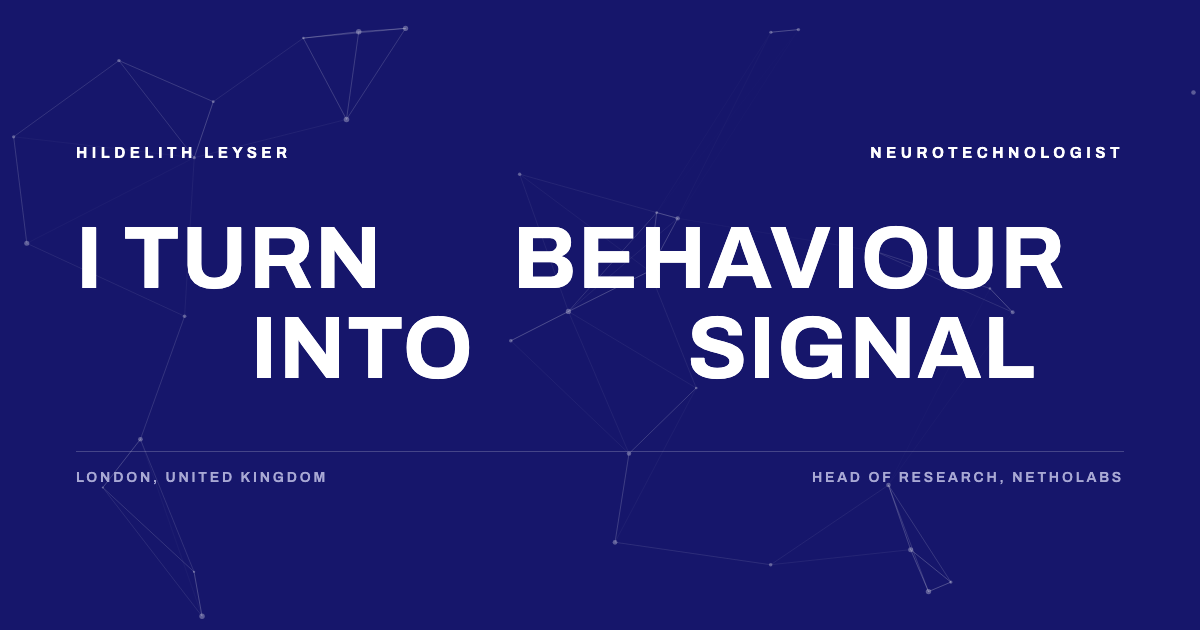
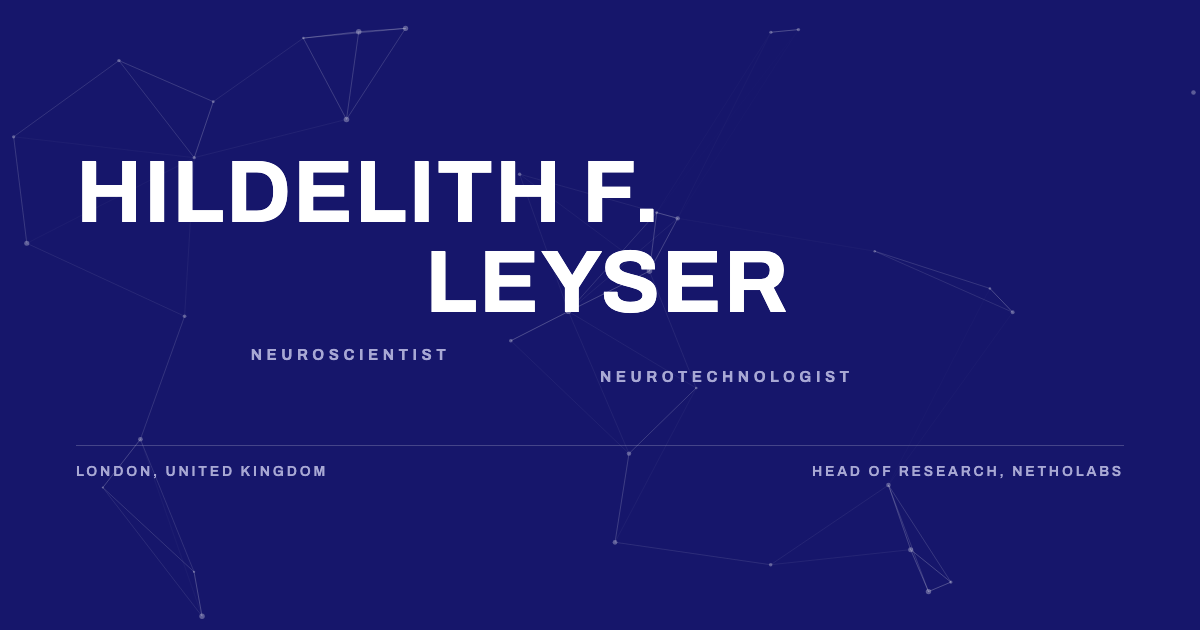
Name, contact, hosting stack: Netlify, GoatCounter, Loop
- Hero drops the slogan and carries the name instead. Byline is now
  Hildelith F. Leyser everywhere, including structured data and manifest.
- Removed the duplicated role: the hero kicker repeated both the name and
  "Neurotechnologist", which the headline and role line already carried,
  and the header repeated it a third time.
- Contact email is hildieleyser@gmail.com.
- netlify.toml carries the build, immutable caching for fingerprinted
  assets, security headers and a redirect for the old /projects path.
  Replaces the GitHub Pages workflow.
- Site origin now reads SITE_URL or Netlify's URL, falling back to the
  github.io address, so canonical links, Open Graph tags and the sitemap
  follow the Strato domain once it is pointed.
- GoatCounter and a Loop signup form, both inert until their codes are set
  in `services` in src/data/site.ts, so nothing broken ships meanwhile.
- README documents the Netlify import, the Strato DNS options and both
  service setups.

Staying on Astro rather than moving to Jekyll and al-folio: al-folio is one
of the most widely used academic templates, which works against the unique
design that was asked for. Every other tool on the list is stack-agnostic
and has been wired up.

Changed region(s): [[0.0617, 0.2111, 0.8942, 0.6032], [0.0617, 0.6937, 0.925, 0.7841], [0.74, 0.2111, 0.925, 0.2714]]

diff --git a/src/data/site.ts b/src/data/site.ts
@@ -1,5 +1,5 @@
 export const site = {
-  name: 'Hildelith Leyser',
+  name: 'Hildelith F. Leyser',
   shortName: 'Hildie Leyser',
   role: 'Neuroscientist & Neurotechnologist',
   title: 'Head of Research, Netholabs',
@@ -7,11 +7,22 @@ export const site = {
   summary:
     'Sensing hardware, closed-loop systems and the pipelines that make the data mean something.',
   location: 'London, United Kingdom',
-  email: 'hildie@netholabs.com',
+  email: 'hildieleyser@gmail.com',
   linkedin: 'https://www.linkedin.com/in/hildelith-leyser-382564206',
   github: 'https://github.com/hildieleyser',
   cv: '/Hildelith_Leyser_CV.pdf',
-  url: 'https://hildieleyser.github.io',
+  url: import.meta.env.SITE || 'https://hildieleyser.github.io',
+};
+
+/**
+ * Third-party services. Each is off until its code is filled in, so the site
+ * ships clean rather than loading a broken script.
+ */
+export const services = {
+  /** GoatCounter site code: the XXX in https://XXX.goatcounter.com */
+  goatcounter: '',
+  /** Loops form id: the last path segment of the form endpoint they give you. */
+  loopsFormId: '',
 };
 
 /** Short credibility strip under the hero. */

diff --git a/README.md b/README.md
@@ -1,9 +1,10 @@
 # hildieleyser.github.io
 
-Personal site for Hildelith Leyser, neuroscientist and neurotechnologist.
+Personal site for Hildelith F. Leyser, neuroscientist and neurotechnologist.
 
 Built with [Astro](https://astro.build). Every page is static HTML, so search
 engines and link previews read the real content rather than an empty shell.
+No framework JavaScript ships.
 
 ## Develop
 
@@ -14,11 +15,6 @@ npm run build    # static build into dist/
 npm run preview  # serve the built site
 ```
 
-## Deploy
-
-Pushing to `main` triggers `.github/workflows/deploy.yml`, which builds the site
-and publishes `dist/` to GitHub Pages. Nothing built is committed to the repo.
-
 ## Editing content
 
 | What | Where |
@@ -26,13 +22,51 @@ and publishes `dist/` to GitHub Pages. Nothing built is committed to the repo.
 | Projects | `src/content/projects/*.md` — one file per project, frontmatter plus prose |
 | Project images | `src/assets/projects/` — referenced from frontmatter, resized at build |
 | CV | `src/data/cv.ts` |
-| Bio, capabilities, research, writing | `src/data/site.ts` |
+| Bio, capabilities, research | `src/data/site.ts` |
+| Analytics and newsletter keys | `services` in `src/data/site.ts` |
 | Colours, type scale, spacing | `src/styles/global.css` |
 | Social preview image | `public/og-default.png` |
 
 Adding a project means dropping a Markdown file into `src/content/projects/`.
-It picks up a card on the home page and its own page at `/projects/<filename>/`.
+It picks up a row on the home page and its own page at `/projects/<filename>/`.
 The `order` field controls where it lands in the running order.
 
 Images live in `src/assets/` rather than `public/` so Astro can resize them and
 emit WebP. A 1.4 MB source PNG ships as roughly 30 kB.
+
+## Deploying on Netlify
+
+`netlify.toml` holds the build command, publish directory, cache headers and
+redirects. Nothing built is committed.
+
+1. In Netlify, **Add new site → Import an existing project**, and pick this
+   GitHub repo. It reads `netlify.toml`, so no settings need typing in.
+2. Every push to `main` deploys. Pull requests get preview URLs.
+
+### Pointing the Strato domain at it
+
+1. Netlify → **Domain management → Add a domain**, enter the domain.
+2. Netlify shows its nameservers. In the Strato control panel, under the
+   domain's DNS settings, replace Strato's nameservers with Netlify's.
+   Nameserver changes can take up to 48 hours to propagate.
+3. Alternatively keep Strato's DNS and add the records Netlify lists: an
+   `ALIAS`/`ANAME` on the apex to `<site>.netlify.app`, and a `CNAME` on
+   `www` to the same. Use this route if other Strato services depend on the
+   existing nameservers.
+4. Netlify provisions the TLS certificate once DNS resolves. Turn on
+   **Force HTTPS**.
+5. Set `SITE_URL` to the final origin in **Site configuration → Environment
+   variables**, so canonical links, Open Graph tags and the sitemap use the
+   real domain rather than the github.io one.
+
+## Analytics and newsletter
+
+Both are off until configured, and emit nothing while empty. Fill in
+`services` in `src/data/site.ts`:
+
+- **GoatCounter** — create a site at [goatcounter.com](https://www.goatcounter.com).
+  Set `goatcounter` to your site code, the `XXX` in `XXX.goatcounter.com`.
+  The counting script only loads once this is set.
+- **Loop** — create a signup form at [loops.so](https://loops.so). It gives a
+  form endpoint ending in an id. Set `loopsFormId` to that id. The subscribe
+  form then appears in the contact section.
